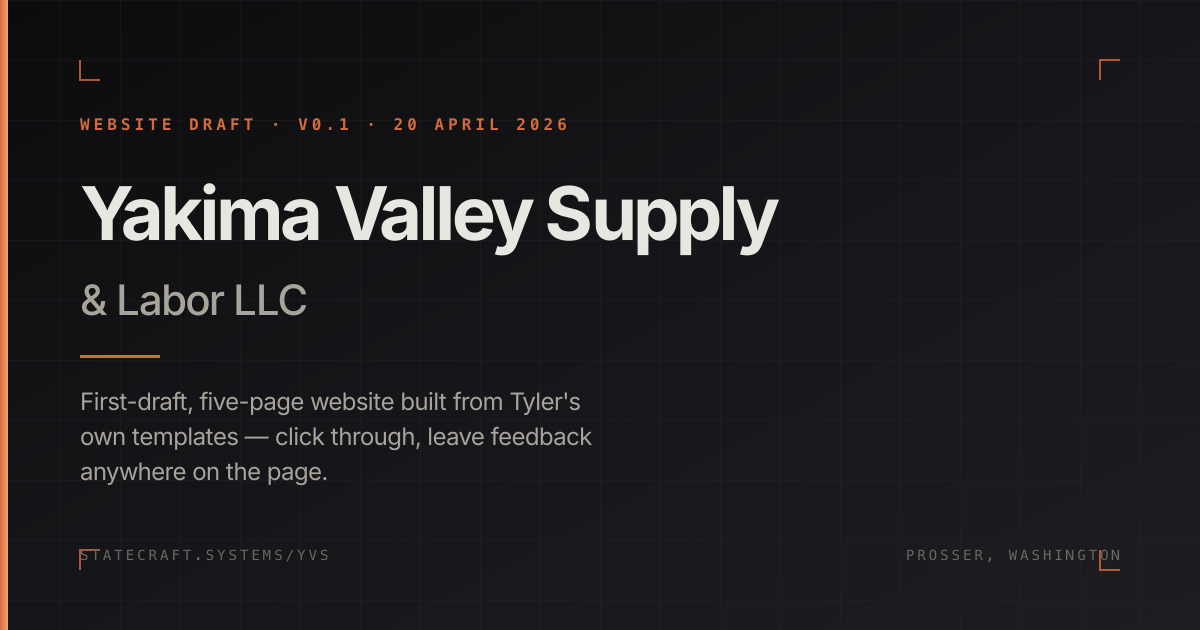
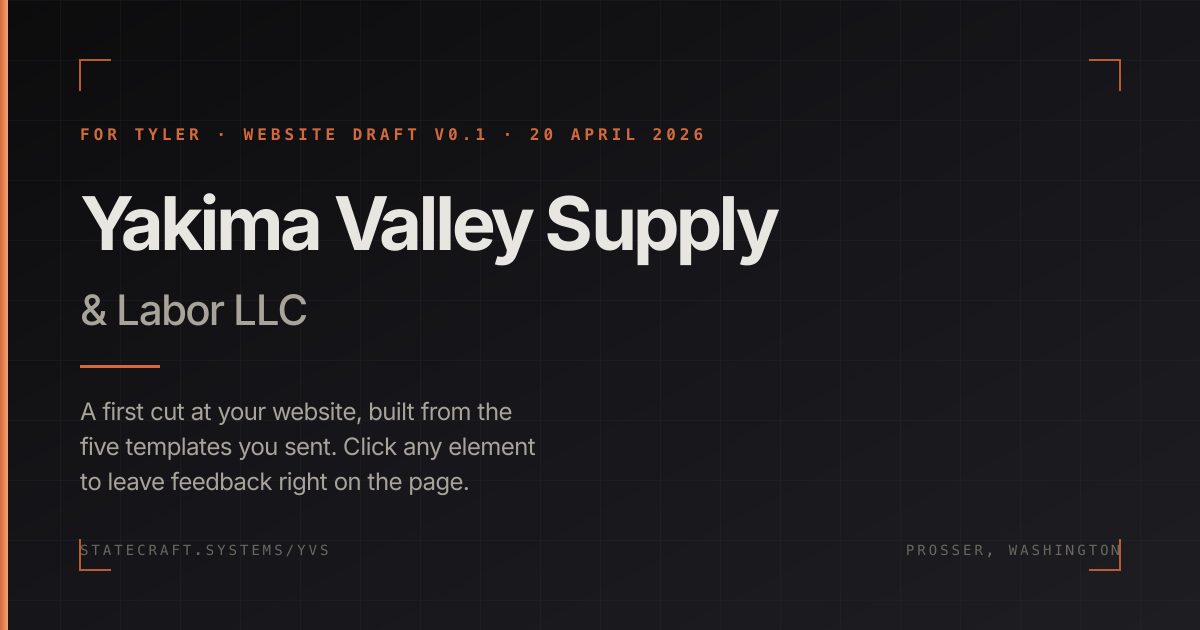
Address YVS draft to Tyler; fix OG image corner marks

diff --git a/public/yvs/index.html b/public/yvs/index.html
@@ -3,8 +3,8 @@
 <head>
 <meta charset="utf-8">
 <meta name="viewport" content="width=device-width, initial-scale=1">
-<title>Yakima Valley Supply — Website Draft v0.1</title>
-<meta name="description" content="First-draft, five-page website for Yakima Valley Supply & Labor LLC, built from Tyler's templates. Click through and leave inline feedback anywhere on the page.">
+<title>Yakima Valley Supply — Website Draft v0.1 for Tyler</title>
+<meta name="description" content="A first cut at your website, Tyler — five pages built from the templates you sent. Click any element on any page to leave feedback. No account required.">
 <meta name="author" content="Moritz Bierling">
 <meta name="theme-color" content="#0c0c0d">
 <meta name="robots" content="noindex, nofollow">
@@ -13,20 +13,20 @@
 
 <meta property="og:type" content="website">
 <meta property="og:site_name" content="Statecraft Systems">
-<meta property="og:title" content="Yakima Valley Supply — Website Draft v0.1">
-<meta property="og:description" content="First-draft, five-page website for Yakima Valley Supply & Labor. Built from Tyler's templates. Click any element to leave inline feedback.">
+<meta property="og:title" content="Yakima Valley Supply — Website Draft v0.1 for Tyler">
+<meta property="og:description" content="A first cut at your website, Tyler — built from the five templates you sent. Click any element to leave feedback right on the page.">
 <meta property="og:url" content="https://statecraft.systems/yvs/">
 <meta property="og:image" content="https://statecraft.systems/yvs/og-yvs.png">
 <meta property="og:image:width" content="1200">
 <meta property="og:image:height" content="630">
-<meta property="og:image:alt" content="Yakima Valley Supply &amp; Labor LLC — Website Draft v0.1, hosted at statecraft.systems/yvs">
+<meta property="og:image:alt" content="Yakima Valley Supply &amp; Labor LLC — Website Draft v0.1 for Tyler, hosted at statecraft.systems/yvs">
 <meta property="og:locale" content="en_US">
 
 <meta name="twitter:card" content="summary_large_image">
-<meta name="twitter:title" content="Yakima Valley Supply — Website Draft v0.1">
-<meta name="twitter:description" content="First-draft, five-page website for Yakima Valley Supply & Labor. Click any element to leave inline feedback.">
+<meta name="twitter:title" content="Yakima Valley Supply — Website Draft v0.1 for Tyler">
+<meta name="twitter:description" content="A first cut at your website, Tyler — built from the five templates you sent. Click any element to leave feedback right on the page.">
 <meta name="twitter:image" content="https://statecraft.systems/yvs/og-yvs.png">
-<meta name="twitter:image:alt" content="Yakima Valley Supply &amp; Labor LLC — Website Draft v0.1">
+<meta name="twitter:image:alt" content="Yakima Valley Supply &amp; Labor LLC — Website Draft v0.1 for Tyler">
 
 <link rel="preconnect" href="https://fonts.googleapis.com">
 <link rel="preconnect" href="https://fonts.gstatic.com" crossorigin>
@@ -279,23 +279,23 @@
 
 <main>
 
-  <span class="kicker">For Brandon · via ThruTheHayes</span>
+  <span class="kicker">For Tyler · via Brandon Hayes</span>
   <div class="doc-meta">Website Draft // Yakima Valley Supply & Labor LLC</div>
 
-  <h1>A first cut at Tyler's website.</h1>
-  <p class="subtitle">You forwarded the request on April 19. This is what was built from the five templates attached to that email — laid out as a working site you can click through, critique, and hand back.</p>
+  <h1>A first cut at your website, Tyler.</h1>
+  <p class="subtitle">Brandon forwarded your note on April 19. This is what was built from the five templates you attached — laid out as a working site you can click through, pick apart, and hand back with notes.</p>
 
   <div class="panel">
-    <p style="margin-bottom: 0.6rem;"><strong>What this is.</strong> A first-draft, five-page static website for Yakima Valley Supply & Labor LLC, built verbatim from Tyler's own copy. No invented content. No backend. No dependencies beyond a web browser.</p>
-    <p style="margin-bottom: 0;"><strong>What this isn't.</strong> A finished product. Photography, refined branding, a real intake backend, and domain setup on Namecheap are all next passes — not this pass.</p>
+    <p style="margin-bottom: 0.6rem;"><strong>What this is.</strong> A first-draft, five-page static website for Yakima Valley Supply & Labor LLC, using the copy you already wrote. No invented content. No backend. No dependencies beyond a web browser — which means once you sign off, it'll upload straight to your Namecheap plan.</p>
+    <p style="margin-bottom: 0;"><strong>What this isn't.</strong> A finished product. A logo, photography, a real form-submission backend, and domain setup on Namecheap are all next passes — not this pass. Today is about getting the bones right.</p>
   </div>
 
-  <h2 data-n="01">Context</h2>
-  <p>Tyler's email described a small supply business in Prosser, WA selling jobsite consumables — gloves, coveralls, tape, brushes — to farms and remediation crews across Central Washington. He asked for help standing up a website on Namecheap and attached five Word documents covering the pages he wanted: <em>Home, Industries We Serve, Ordering Process, Industrial Customer Intake Form,</em> and <em>Contact</em>.</p>
-  <p>The copy is already strong — specific to how crews actually burn through supplies on the job. The task was to give it a home: clean typography, a work-grade aesthetic, and structure a first-time visitor can navigate without friction.</p>
+  <h2 data-n="01">Where This Came From</h2>
+  <p>Your email described the shape of Yakima Valley Supply: small, direct, built around relationships with farms and remediation crews across Central Washington. The five Word documents you sent — <em>Home, Industries We Serve, Ordering Process, Industrial Customer Intake Form,</em> and <em>Contact</em> — already did most of the heavy lifting. The writing is specific to how crews actually burn through supplies on the job, which is exactly what makes a supply business's site worth reading.</p>
+  <p>The task on this end was to give that copy a home: clean typography, a work-grade look, and enough structure that a first-time visitor — a farm manager, a remediation foreman — can find what they need in about fifteen seconds.</p>
 
   <h2 data-n="02">What You're Looking At</h2>
-  <p>Five pages, one stylesheet, zero JavaScript. The whole thing is static HTML — it will upload to any Namecheap plan and load instantly on any device.</p>
+  <p>Five pages, one stylesheet, zero JavaScript. The whole thing is static HTML — it'll upload to any Namecheap hosting plan and load instantly on any device, including phones out in the field.</p>
   <div class="page-grid">
     <div class="page-card">
       <a href="home.html">Home</a>
@@ -325,26 +325,26 @@
   </div>
 
   <h2 data-n="03">How to Leave Feedback</h2>
-  <p>A small feedback widget is injected on every page. You'll see a floating marker in the lower corner. Click anywhere on the page to pin a comment to that exact element — a sentence, a button, a section header — and type what you'd change.</p>
+  <p>A small feedback widget is loaded on every page — you'll see a floating marker in the lower corner. You don't need an account. You don't need to track changes in a document. Just click the thing you want to change and type.</p>
   <ol class="steps">
-    <li><strong>Open any page</strong> in the list above.</li>
-    <li><strong>Click the element</strong> you want to comment on. The widget captures which thing on the page you're pointing at.</li>
-    <li><strong>Leave a note</strong> — as blunt or rough as you want. Name optional.</li>
-    <li><strong>That's it.</strong> Comments land server-side; I'll review them, reply, and revise.</li>
+    <li><strong>Open any page</strong> from the list above.</li>
+    <li><strong>Click the element</strong> you want to comment on — a sentence, a button, a section header. The widget remembers exactly what you clicked.</li>
+    <li><strong>Leave a note.</strong> Blunt is good. Rough is good. "This word is wrong." "Move this up." "Never say that about our customers." Your name is optional.</li>
+    <li><strong>That's it.</strong> Your comments come straight back to me. I'll review them, reply if needed, and revise the draft.</li>
   </ol>
-  <p class="muted">This is easier than tracking changes in a document — especially for visual things ("make this smaller," "move this up," "this word feels wrong"). For Tyler and anyone else you want to loop in, the link is the whole interface.</p>
+  <p class="muted">This is faster than redlining a Word doc, especially for visual things. If you prefer to just call or email instead, the contact info is at the bottom of this page and at the end of every draft page.</p>
 
-  <h2 data-n="04">What's Next</h2>
+  <h2 data-n="04">What Happens Next</h2>
   <ul class="plain">
-    <li><strong>Tyler sees it.</strong> Confirm the structure fits his operation. Catch factual errors, missing products, tone mismatches.</li>
-    <li><strong>Photography & brand.</strong> A logo, a color pulled from the Yakima Valley, and even a few crew/jobsite photos would lift this substantially.</li>
-    <li><strong>Intake backend.</strong> The form works via <code>mailto:</code> on day one. When volume picks up, swap in a small form handler — Cloudflare Workers or a Supabase endpoint — so submissions hit a database instead of an inbox.</li>
-    <li><strong>Namecheap deployment.</strong> Upload <code>/yvs/</code> as the document root on the Namecheap hosting plan Tyler already has, and point <code>www.yakimavalleysupply.com</code> at it.</li>
+    <li><strong>You walk through it.</strong> Confirm the structure fits the business. Catch anything factually wrong, any products I missed, any tone that doesn't sound like you.</li>
+    <li><strong>Logo & photography.</strong> A simple mark and a handful of crew/jobsite photos would lift this a lot. If you have photos already, send them. If not, we can talk about getting a few.</li>
+    <li><strong>The intake form.</strong> Right now it opens your customer's email client with their answers filled in — no backend, nothing to break. When orders start coming in regularly, we can swap in a proper form handler so submissions land in a database or straight into your inbox, whichever you prefer.</li>
+    <li><strong>Going live on Namecheap.</strong> Once you sign off, we upload these files to your Namecheap hosting plan and point <code>www.yakimavalleysupply.com</code> at them. The draft stays up here for reference as long as it's useful.</li>
   </ul>
 
   <div class="cta-row">
     <a href="home.html" class="btn">Enter the draft →</a>
-    <a href="mailto:moritzbierling@hey.com?subject=YVS%20draft%20feedback" class="btn btn--ghost">Email me directly</a>
+    <a href="mailto:moritzbierling@hey.com?subject=YVS%20draft%20feedback&amp;cc=thruthehayes@protonmail.com" class="btn btn--ghost">Email me directly</a>
   </div>
 
 </main>
